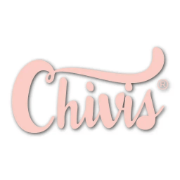
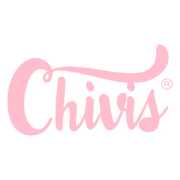
imagenes y seo

Changed region(s): [[0.0278, 0.25, 0.9722, 0.7778], [0.75, 0.3889, 0.8056, 0.4167]]

diff --git a/src/App.tsx b/src/App.tsx
@@ -4,10 +4,13 @@ import { FaWhatsapp } from 'react-icons/fa';
 import ReactConfetti from 'react-confetti';
 import { GoogleSheetsService } from './utils/googleSheets';
 import type { FormData, Question } from './types';
+import { Alert } from './components/Alert';
 
 function App() {
   const [currentStep, setCurrentStep] = useState(0);
   const [showConfetti, setShowConfetti] = useState(false);
+  const [showAlert, setShowAlert] = useState(false);
+  const [alertMessage, setAlertMessage] = useState('');
   const [formData, setFormData] = useState<FormData>({
     timestamp: '',
     compraPreferencia: '',
@@ -243,23 +246,27 @@ function App() {
       const value = formData[currentQuestion.id as keyof FormData];
       
       if (currentQuestion.id === 'ciudad' && value === 'otra' && !formData.ciudadOtra) {
-        alert('Por favor, especifica tu ciudad');
+        setAlertMessage('Por favor, especifica tu ciudad');
+        setShowAlert(true);
         return;
       }
       
       if (currentQuestion.id === 'estilo' && value === 'otro' && !formData.estiloOtro) {
-        alert('Por favor, especifica tu estilo');
+        setAlertMessage('Por favor, especifica tu estilo');
+        setShowAlert(true);
         return;
       }
       
       if (!value) {
-        alert('Por favor, selecciona una opción');
+        setAlertMessage('Por favor, selecciona una opción');
+        setShowAlert(true);
         return;
       }
     }
     
     if (currentQuestion.type === 'terms' && !formData.aceptaTerminos) {
-      alert('Debes aceptar los términos y condiciones para continuar');
+      setAlertMessage('Debes aceptar los términos y condiciones para continuar');
+      setShowAlert(true);
       return;
     }
 
@@ -268,83 +275,15 @@ function App() {
     }
   };
 
-  const handlePrevious = () => {
-    if (currentStep > 0) {
-      setCurrentStep(currentStep - 1);
-    }
-  };
-
-  const handleInputChange = (e: React.ChangeEvent<HTMLSelectElement | HTMLInputElement | HTMLTextAreaElement>) => {
-    const { name, value, type } = e.target;
-    const newValue = type === 'checkbox' ? (e.target as HTMLInputElement).checked : value;
-    setFormData(prev => ({ ...prev, [name]: newValue }));
-  };
-
-  const currentQuestion = questions[currentStep];
-  const progress = ((currentStep) / (questions.length - 1)) * 100;
-
-  const renderSelect = (question: Question) => {
-    if (!question.options) return null;
-    
-    return (
-      <select
-        name={question.id}
-        value={formData[question.id as keyof FormData] as string}
-        onChange={handleInputChange}
-        className="w-full px-4 py-2 border border-gray-300 rounded-lg focus:ring-2 focus:ring-pink-500 focus:border-pink-500"
-        required
-      >
-        <option value="">Selecciona una opción</option>
-        {question.options.map((option) => (
-          <option key={option.value} value={option.value}>
-            {option.label}
-          </option>
-        ))}
-      </select>
-    );
-  };
-
-  const renderQuestion = () => {
-    if (currentQuestion.type === 'welcome' || currentQuestion.type === 'thanks' || currentQuestion.type === 'terms') {
-      return currentQuestion.content;
-    }
-
-    return (
-      <>
-        <h2 className="text-xl font-bold text-gray-800 mb-6">{currentQuestion.question}</h2>
-        {currentQuestion.type === 'select' && renderSelect(currentQuestion)}
-        {currentQuestion.type === 'select-other' && (
-          <div className="space-y-4">
-            {renderSelect(currentQuestion)}
-            {formData[currentQuestion.id as keyof FormData] === 'otro' && (
-              <input
-                type="text"
-                name={`${currentQuestion.id}Otro`}
-                value={formData[`${currentQuestion.id}Otro` as keyof FormData] as string}
-                onChange={handleInputChange}
-                placeholder={`Especifica tu ${currentQuestion.id}`}
-                className="w-full px-4 py-2 border border-gray-300 rounded-lg focus:ring-2 focus:ring-pink-500 focus:border-pink-500"
-                required
-              />
-            )}
-          </div>
-        )}
-        {currentQuestion.type === 'textarea' && (
-          <textarea
-            name={currentQuestion.id}
-            value={formData[currentQuestion.id as keyof FormData] as string}
-            onChange={handleInputChange}
-            className="w-full px-4 py-2 border border-gray-300 rounded-lg focus:ring-2 focus:ring-pink-500 focus:border-pink-500 h-32"
-            placeholder="Escribe tu sugerencia aquí (opcional)"
-          />
-        )}
-      </>
-    );
-  };
-
   return (
     <div className="min-h-screen bg-gray-50 flex flex-col items-center justify-start p-4">
       {showConfetti && <ReactConfetti />}
+      {showAlert && (
+        <Alert
+          message={alertMessage}
+          onClose={() => setShowAlert(false)}
+        />
+      )}
       
       <div className="w-full max-w-md mb-8 mt-8">
         <img

diff --git a/index.html b/index.html
@@ -7,7 +7,7 @@
     <link rel="icon" type="image/png" sizes="32x32" href="/favicon-32x32.png">
     <link rel="icon" type="image/png" sizes="16x16" href="/favicon-16x16.png">
     <link rel="manifest" href="/site.webmanifest">
-    <link rel="mask-icon" href="/safari-pinned-tab.svg" color="#ec4899">
+    <link rel="mask-icon" href="/favicon.svg" color="#ec4899">
     <meta name="msapplication-TileColor" content="#ec4899">
     <meta name="theme-color" content="#ffffff">
 
@@ -22,14 +22,14 @@
     <meta property="og:url" content="https://app.chivisclothes.com/" />
     <meta property="og:title" content="Encuesta de Satisfacción - Chivis Clothes" />
     <meta property="og:description" content="Participa en nuestra encuesta y obtén un 10% de descuento en tu próxima compra. ¡Tu opinión nos importa!" />
-    <meta property="og:image" content="https://app.chivisclothes.com/og-image.jpg" />
+    <meta property="og:image" content="https://app.chivisclothes.com/og-image-open.png" />
 
     <!-- Twitter -->
     <meta property="twitter:card" content="summary_large_image" />
     <meta property="twitter:url" content="https://app.chivisclothes.com/" />
     <meta property="twitter:title" content="Encuesta de Satisfacción - Chivis Clothes" />
     <meta property="twitter:description" content="Participa en nuestra encuesta y obtén un 10% de descuento en tu próxima compra. ¡Tu opinión nos importa!" />
-    <meta property="twitter:image" content="https://app.chivisclothes.com/og-image.jpg" />
+    <meta property="twitter:image" content="https://app.chivisclothes.com/og-image-open.png" />
 
     <!-- Fonts -->
     <link rel="preconnect" href="https://fonts.googleapis.com">

diff --git a/src/components/Alert.tsx b/src/components/Alert.tsx
@@ -1,0 +1,43 @@
+import { useEffect, useState } from 'react';
+import { X } from 'lucide-react';
+
+interface AlertProps {
+  message: string;
+  onClose: () => void;
+  duration?: number;
+}
+
+export function Alert({ message, onClose, duration = 3000 }: AlertProps) {
+  const [isVisible, setIsVisible] = useState(true);
+  const [isLeaving, setIsLeaving] = useState(false);
+
+  useEffect(() => {
+    const timer = setTimeout(() => {
+      setIsLeaving(true);
+      setTimeout(onClose, 300);
+    }, duration);
+
+    return () => clearTimeout(timer);
+  }, [duration, onClose]);
+
+  return (
+    <div
+      className={`fixed top-4 left-1/2 transform -translate-x-1/2 z-50 transition-all duration-300 ${isLeaving ? 'opacity-0 translate-y-[-1rem]' : 'opacity-100 translate-y-0'}`}
+    >
+      <div className="bg-pink-50 border border-pink-200 rounded-lg shadow-lg px-6 py-4 flex items-center gap-3 min-w-[320px]">
+        <div className="flex-1">
+          <p className="text-pink-800 font-medium">{message}</p>
+        </div>
+        <button
+          onClick={() => {
+            setIsLeaving(true);
+            setTimeout(onClose, 300);
+          }}
+          className="text-pink-600 hover:text-pink-800 transition-colors"
+        >
+          <X className="w-5 h-5" />
+        </button>
+      </div>
+    </div>
+  );
+}
